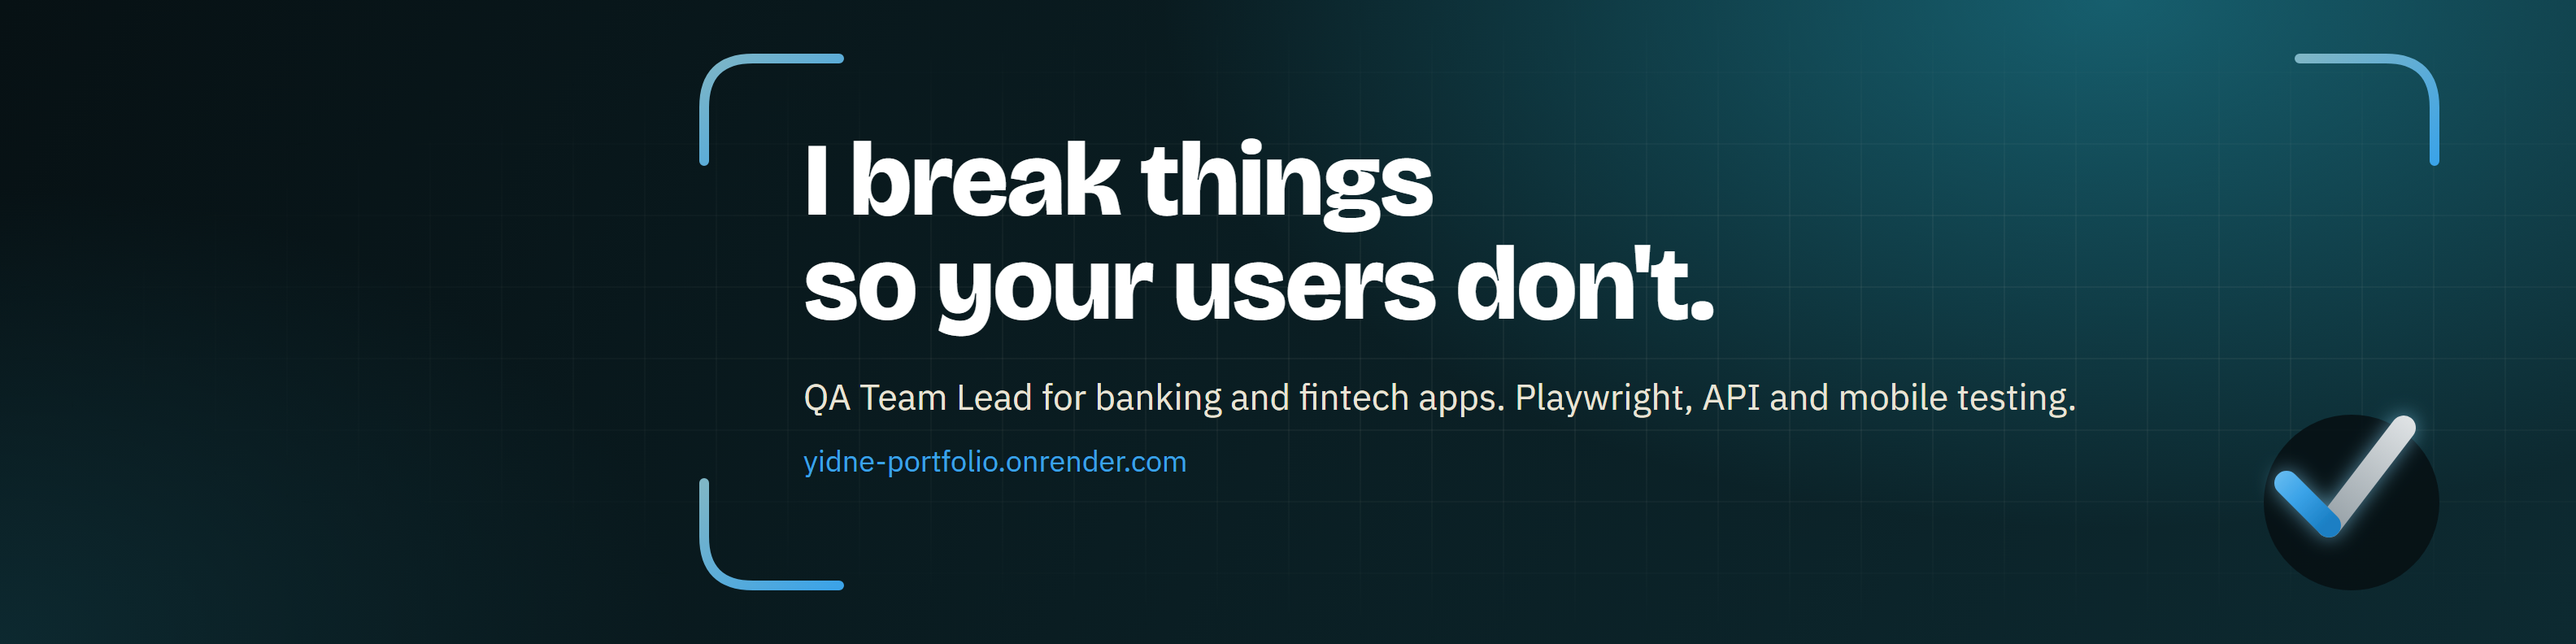
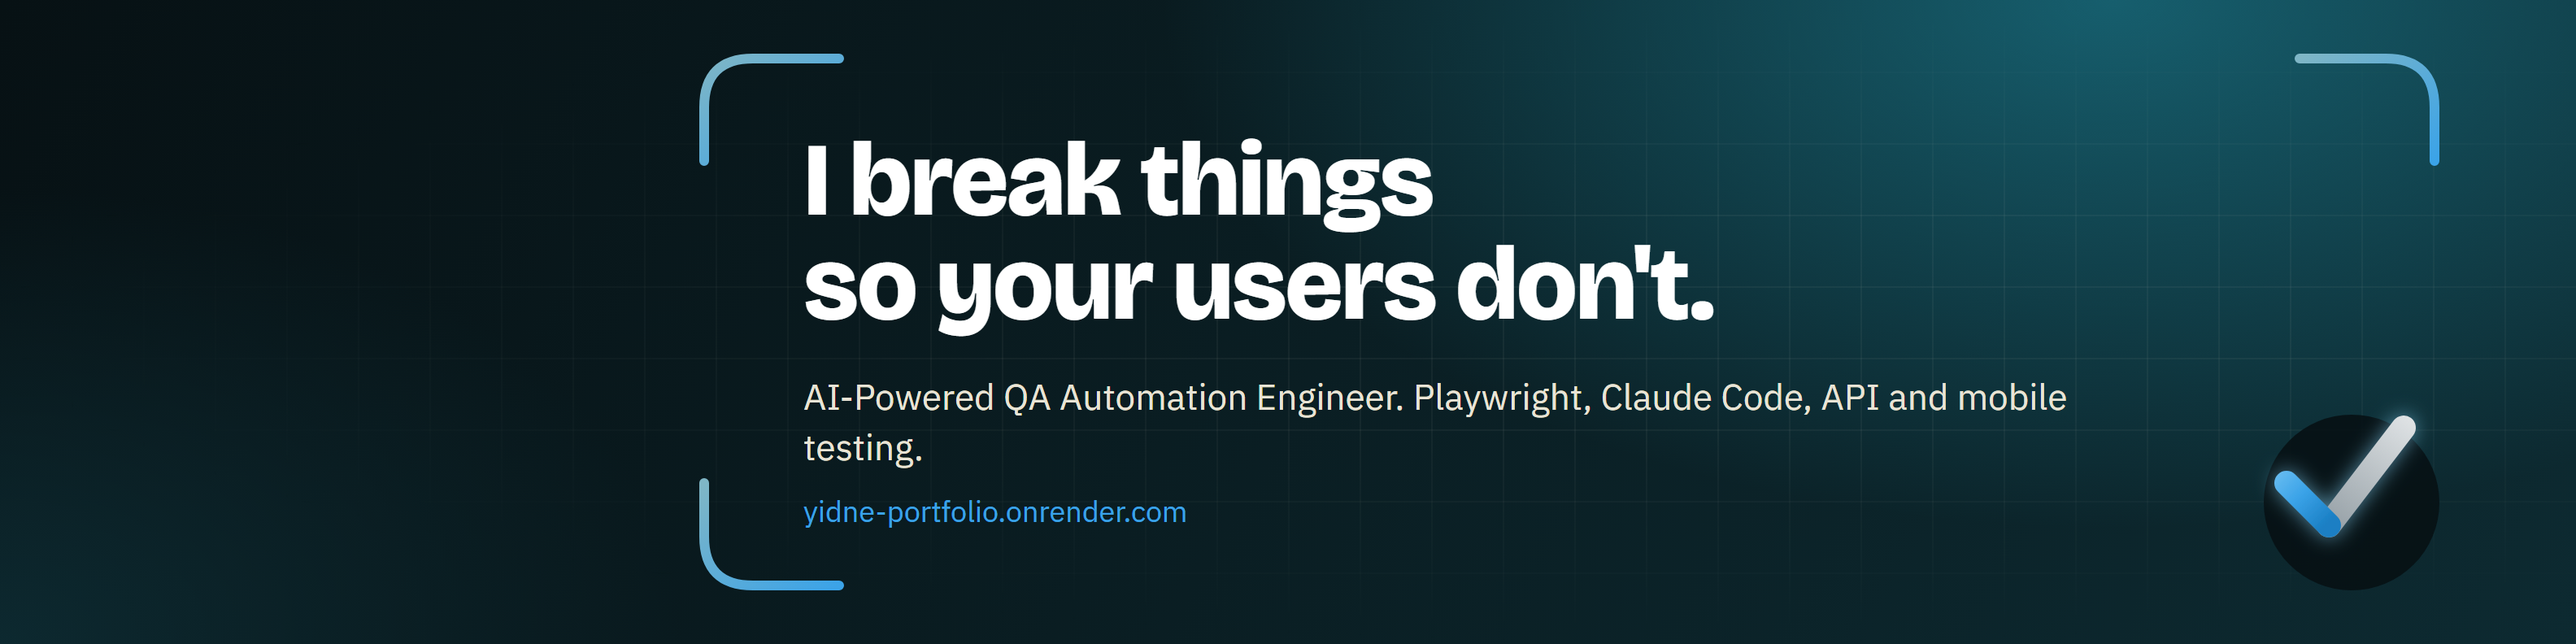
Update profile: AI-powered QA automation engineer

Changed region(s): [[0.3125, 0.5758, 0.8125, 0.6364], [0.3125, 0.6667, 0.4688, 0.7273], [0.3125, 0.7879, 0.4688, 0.8182]]

diff --git a/README.md b/README.md
@@ -1,8 +1,8 @@
-<a href="https://yidne-portfolio.onrender.com/"><img src="./assets/banner.gif" alt="I break things so your users don't. Yidnekachew Kassahun, QA Team Lead" width="100%"></a>
+<a href="https://yidne-portfolio.onrender.com/"><img src="./assets/banner.gif" alt="I break things so your users don't. Yidnekachew Kassahun, AI-Powered QA Automation Engineer" width="100%"></a>
 
 ## Hi, I'm Yidne
 
-QA Team Lead at **EagleLion System Technology** in Addis Ababa. I lead a 17-person QA team testing a pre-launch mobile super app for one of Ethiopia's largest banks, and I build the tools and automation that keep releases calm.
+AI-Powered QA Automation Engineer and QA Team Lead at **EagleLion System Technology** in Addis Ababa. I lead a 17-person QA team testing a pre-launch mobile super app for one of Ethiopia's largest banks, and I use Playwright and Claude Code to build the tools and automation that keep releases calm.
 
 <a href="https://yidne-portfolio.onrender.com/"><img src="https://img.shields.io/badge/Portfolio-yidne--portfolio-1f8fa6?style=for-the-badge&labelColor=0d2a31" alt="Portfolio"></a>
 <a href="https://www.linkedin.com/in/yidnekachew-kassahun/"><img src="https://img.shields.io/badge/LinkedIn-Connect-3ba3e8?style=for-the-badge&logo=linkedin&logoColor=white&labelColor=0d2a31" alt="LinkedIn"></a>
@@ -10,7 +10,7 @@ QA Team Lead at **EagleLion System Technology** in Addis Ababa. I lead a 17-pers
 
 ### My career, as a test run
 
-<img src="./assets/career-run.svg" alt="npx playwright test career.spec.ts: QA Team Lead at EagleLion System Technology; leads a 17-person QA team; 10,000+ test cases in one regression cycle at a 97% pass rate; built the team's QA dashboard with Claude Code; Playwright and TypeScript suites for 3 banking portals. Learning: Rest Assured and Claude Code for test automation." width="100%">
+<img src="./assets/career-run.svg" alt="npx playwright test career.spec.ts: QA Team Lead at EagleLion System Technology; leads a 17-person QA team; 10,000+ test cases in one regression cycle at a 97% pass rate; built the team's QA dashboard with Claude Code; Playwright and TypeScript suites for 3 banking portals; AI-assisted test automation with Claude Code. Learning: Rest Assured for API automation." width="100%">
 
 ### Recent work
 
@@ -33,7 +33,7 @@ QA Team Lead at **EagleLion System Technology** in Addis Ababa. I lead a 17-pers
 ![GitHub Actions](https://img.shields.io/badge/GitHub%20Actions-0d2a31?style=flat-square&logo=githubactions&logoColor=2088ff)
 ![Jira](https://img.shields.io/badge/Jira-0d2a31?style=flat-square&logo=jira&logoColor=0a85ff)
 ![Azure DevOps](https://img.shields.io/badge/Azure%20DevOps-0d2a31?style=flat-square&logo=azuredevops&logoColor=0078d7)
-![Claude Code](https://img.shields.io/badge/Claude%20Code-learning-1f8fa6?style=flat-square&labelColor=0d2a31)
+![Claude Code](https://img.shields.io/badge/Claude%20Code-AI--powered%20testing-1f8fa6?style=flat-square&labelColor=0d2a31)
 ![Rest Assured](https://img.shields.io/badge/Rest%20Assured-learning-1f8fa6?style=flat-square&labelColor=0d2a31)
 
 ### Before QA
